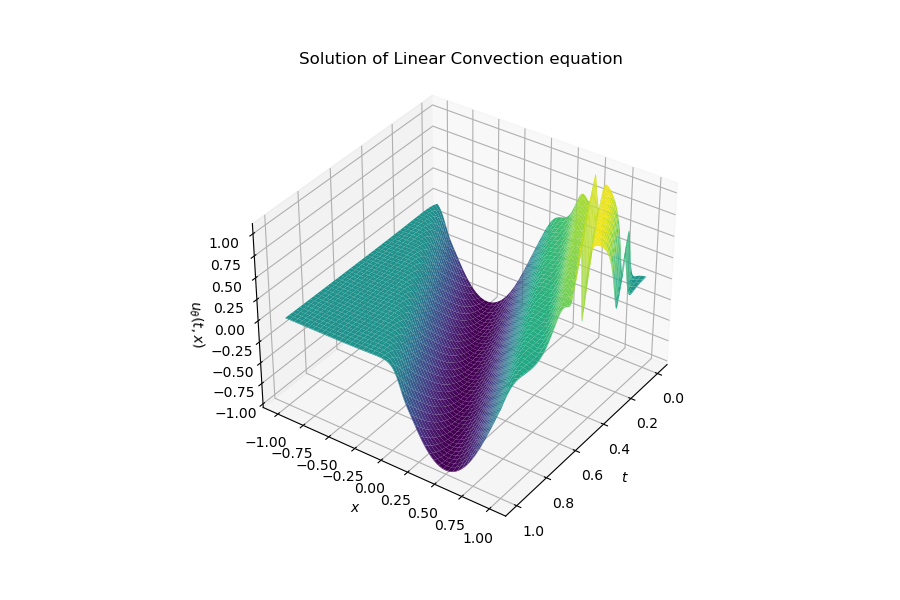
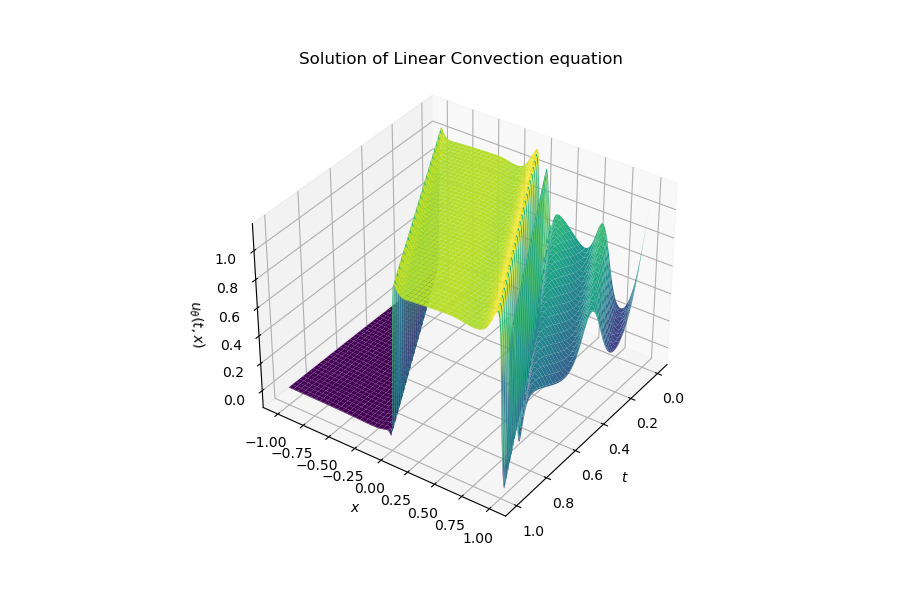
ones for initial condition

Changed region(s): [[0.2178, 0.18, 0.7467, 0.81]]

diff --git a/main.py b/main.py
@@ -138,7 +138,7 @@ viscosity = 0.0/pi
 
 # Define initial condition
 def fun_u_0(x):
-    return -tf.sin(pi * (x + 1.0))
+    return  tf.ones_like(x) #-tf.sin(pi * (x + 1.0))
 
 # Define boundary condition
 def fun_u_b(t, x):
